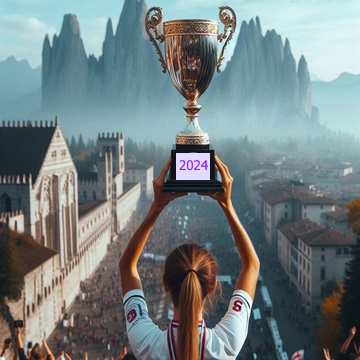
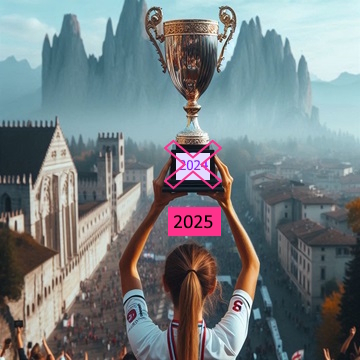
modification texte nouveau jeu mémoire long terme

Changed region(s): [[0.4583, 0.3667, 0.6111, 0.6722]]

diff --git a/ReactCoreCerebral/ClientApp/src/jeux/vitesse/parcours/JeuAlz.js b/ReactCoreCerebral/ClientApp/src/jeux/vitesse/parcours/JeuAlz.js
@@ -25,11 +25,12 @@ export default class JeuAlz extends Component {
             score :0
         };
         this.noPartie = 0;
-        this.tabPartie = [{  nbElements: 3 }, { nbElements: 4 }, {nbElements: 5 }]
+        this.tabPartie = [{  nbElements: 3, espacePipe : 280 }, { nbElements: 4, espacePipe : 200 }, {nbElements: 5, espacePipe : 180 }]
         this.erreur = 0;
         this.erreurTotal = 0;
         this.stop = false;
         this.nbPipes = 3;
+        this.espacePipe = 280;
 
     }
    
@@ -103,32 +104,47 @@ export default class JeuAlz extends Component {
                 }
             }
             this.erreur = this.state.tabMots.length - trouve;
+            score += 7 * trouve;
             this.stop = true;
             if (this.erreur === 0) {
                 message.success("Bravo", 2, this.nouvellePartie);
-                score += 7;
+            
             }
             else {
-                message.error("Perdu, fautes : " + this.erreur, 2, this.nouvellePartie);
+                console.log(this.erreur);
+                message.error(this.erreur +  (this.erreur == 1 ? " faute" : " fautes"), 2, this.nouvellePartie);
             }
         }
-        this.setState({ tabChoix: nouveauChoix });
+        this.setState({ tabChoix: nouveauChoix,
+            score
+         });
     }
     nouvellePartie = () => {
         this.noPartie++;
       
-        this.nbPipes = this.tabPartie[this.noPartie].nbElements;
+       
         this.erreurTotal += this.erreur;
         if (this.noPartie === this.tabPartie.length)
         {
-            this.setState({score : this.state.score + 40,
+            if (this.state.score > 83)
+            {
+                this.setState({score : this.state.score + 50,
+                    afficheResultat : true
+                });
+            }
+            else
+            {
+                 this.setState({
                 afficheResultat : true
             });
+            }
+           
         }
         else
         {
             this.stop = false;
-           
+            this.nbPipes = this.tabPartie[this.noPartie].nbElements;
+            this.espacePipe = this.tabPartie[this.noPartie].espacePipe;
             this.erreur = 0;
             this.setState({ tabMots: this.tirageDonnees(),
                 tabChoix: new Array(this.tabPartie[this.noPartie].nbElements).fill("vide"),
@@ -146,14 +162,14 @@ export default class JeuAlz extends Component {
        
         return <div>
              <Helmet>
-                    <title>Test mémoire de long terme</title>
-                    <meta name="description" content="Un jeu de mémorisation pour évaluer son âge mental. Retenez une liste de mots pour ensuite pouvoir choisir les dessins correspondants." />
-                </Helmet>
+                    <title>Jeu mémoire de long terme</title>
+                    <meta name="description" content="Testez vos capacités cognitives avec notre jeu de mémoire inspiré des tests d'Alzheimer. Améliorez votre mémoire tout en vous amusant et évaluez vos performances cérébrales." />
+                    </Helmet>
              {this.state.afficheResultat ?  <Resultat score={this.state.score} typeExo='vitessealz'></Resultat> :
         <div> <div className='titreJeu'>Mémoire de long terme</div> 
         {this.state.afficheEtat === 'liste' ? <div><Mots finMots={this.finMots}  tabMots={this.state.tabMots}></Mots> </div>:
           
-          this.state.afficheEtat === 'flip' ?  <JeuParcours jeuReussi={this.jeuReussi} nbPipes={this.nbPipes}></JeuParcours> :<div><div className="margeHaut10 centre fontMoyenne">Choisir les images qui correspondent aux mots que tu as retenus. L'ordre n'a aucune importance.</div>
+          this.state.afficheEtat === 'flip' ?  <JeuParcours jeuReussi={this.jeuReussi} espacePipe={this.espacePipe} nbPipes={this.nbPipes}></JeuParcours> :<div><div className="margeHaut10 centre fontMoyenne">Choisir les images qui correspondent aux mots que tu as retenus. L'ordre n'a aucune importance.</div>
             <Choix tabChoix={this.state.tabChoix} ></Choix>
            
             <Images tabImages={this.state.tabImages} choixImage={this.choixImage}></Images>
@@ -162,7 +178,7 @@ export default class JeuAlz extends Component {
         </div>}
         </div>}
         <div className='centre'>
-          <div className="marge20"> <CompteRebours temps={30} finTimer={this.finTimer}></CompteRebours></div>
+          <div className="marge20"> <CompteRebours temps={90} finTimer={this.finTimer}></CompteRebours></div>
                <div className="marge20">Score : {this.state.score}</div></div>
         </div>
     }

diff --git a/ReactCoreCerebral/ClientApp/src/components/principal/PresentationTemps.js b/ReactCoreCerebral/ClientApp/src/components/principal/PresentationTemps.js
@@ -62,6 +62,9 @@ this.nomMois = moisEnFrancais[d.getMonth()];
       <Helmet>
         <title>Jeux cognitifs gratuits en ligne pour adultes</title>
         <meta name="description" content="Des jeux cognitifs simples pour faire travailler son cerveau tout en s'amusant. Tous les jeux sont accessibles en ligne et sont gratuits, ils peuvent être pratiqués aussi bien par les enfants que les adultes et les seniors." />
+        <link rel="alternate" hreflang="en" href="https://brain-games.evalquiz.com" />
+<link rel="alternate" hreflang="fr" href="https://cerebral.evalquiz.com" />
+<link rel="alternate" hreflang="x-default" href="https://cerebral.evalquiz.com" />
       </Helmet>
       <h1 className="titre centre couleurTitre">Sport cérébral et jeux cognitifs</h1>
       <div className='centre'>evalquiz : le site numéro 1 du divertissement intelligent</div>
@@ -70,8 +73,7 @@ this.nomMois = moisEnFrancais[d.getMonth()];
         <Col md={24}>
         <h2>Développez votre intelligence avec les jeux cognitifs</h2>
         <p>À l'ère numérique actuelle, où nos esprits sont constamment sollicités par une multitude d'informations, la pratique de jeux cognitifs apparait comme une stratégie intelligente pour stimuler et développer notre cerveau. Ces jeux, conçus pour engager activement les processus mentaux, offrent bien plus qu'une simple distraction ludique.</p>
-        
-          <div className="centre"><img src={border} alt="bordure" width="100" height="41" ></img></div>
+      
 
         </Col>
       </Row>
@@ -83,10 +85,10 @@ this.nomMois = moisEnFrancais[d.getMonth()];
   
           <h3>Les précédents champions</h3>
       <p className='fontMoyenne'>👑 <span className='champVitesse'>Gwendal x2</span>  <span className='champVitesse'>Meneleus</span> <span className='champVitesse'>Quentin x2</span> <span className='champVitesse'>rvteo x2</span> <span className='champVitesse'>waïra x2</span>
-       <span className='champVitesse'>inconnu583 x6</span> <span className='champVitesse'>Lili55 x5</span>👑</p>
-      <h3 className='centre'>🚩 Lili55 a remporté le concours de l'année 2024 avec une nouvelle victoire en décembre ! 📅</h3>
-      <p className="centre">Qui sera le premier gagnant de 2025 ?</p>
-      <div className="centre"><img src={x6} width="200" height="200" alt="vainqueur 2024"></img></div>
+       <span className='champVitesse'>inconnu583 x6</span> <span className='champVitesse'>Lili55 x6</span>👑</p>
+      <h3 className='centre'>🚩 Nouvelle année et nouvelle victoire pour Lili55. La sixième consécutive. Bravo ! 📅</h3>
+      <p className="centre">La lutte pour la première place est aussi intense pour nos autres jeux : le<a href="https://concours.evalquiz.com/yam-presentation"> Yams</a> et le <a href="https://concours.evalquiz.com/mots-scrable">Scrabble solitaire</a></p>
+      <div className="centre"><img src={x6} width="200" height="200" alt="vainqueur 2025"></img></div>
      
       
       <div className='plateauCategorie'>

diff --git a/ReactCoreCerebral/ClientApp/src/components/principal/TestMemoire.js b/ReactCoreCerebral/ClientApp/src/components/principal/TestMemoire.js
@@ -33,14 +33,28 @@ export default class TestMemoire extends Component {
   render() {
     return <div>
          <Helmet>
-            <title>les tests de la mémoire </title>
+            <title>Les tests de la mémoire </title>
             <meta name="description" content="Évaluez et améliorez votre mémoire avec une gamme de tests interactifs. Découvrez des évaluations des différents types de mémoire pour mieux comprendre et renforcer vos capacités cognitives."></meta>
+
+            <link rel="alternate" hreflang="en" href="https://brain-games.evalquiz.com/memory-games" />
+<link rel="alternate" hreflang="fr" href="https://cerebral.evalquiz.com/test-memoire" />
+<link rel="alternate" hreflang="x-default" href="https://cerebral.evalquiz.com/test-memoire" />
             </Helmet>
-      <h1 className="titre couleurTitre centre">Bilan mémoire : testez vos performances</h1>
+      <h1 className="titre couleurTitre centre">Bilan mémoire : testez votre mémoire</h1>
      <p>Évaluez vos capacités de mémorisation à travers une série de jeux interactifs conçus pour faire un bilan complet de votre mémoire.</p>
 <GraphiqueRapidite categorie='m' recupererResultatJoueur={this.recupererResultatJoueur}></GraphiqueRapidite>
 
 <div className='jeuVitesse marge20'>
+
+<div className="lienJeuRapidité presentationJeu marge20">
+      <Link  to='/vitessealz'> <div className="centre titreVitesse" >🎗  La mémoire longue</div>    
+          <p className="marge20">But du jeu : Se souvenir des mots affichés. À la différence des autres tests, on ne vous demande pas de vous souvenir de la liste de mots tout de suite, vous devez jouer à un petit jeu avant de restituer la liste. Ce jeu de mémoire est inspiré d'un test d'Alzheimer, le test des 5 mots, mais dans une version ludique. 7 points par mot, bonus de 50 points si vous trouvez les 12 mots. </p>
+ </Link>
+     <p className='centre'>{this.state.resultatsJoueur["vitessealz"] != null ? "Ton score : " +  this.state.resultatsJoueur["vitessealz"]:"Pas encore de résultat" }</p>
+        <div className="centre"><Link to='/classement/vitessealz'>Classement</Link></div>
+      </div>
+
+
               <div className="lienJeuRapidité presentationJeu marge20">
       <Link  to='/vitessememory'> <div className="centre titreVitesse" >🎩  Le jeu du memory</div>    
           <p className="marge20">But du jeu : Trouver toutes les paires comme dans le classique jeu du Memory. Une différence avec le jeu classique : tu découvres les paires à ton rythme. Elles ne disparaissent pas au bout d'un certain temps. Le temps alloué est de 60 secondes pour tenter de trouver toutes les paires, un bonus de 30 points est alloué si tu finis le jeu.</p>

diff --git a/ReactCoreCerebral/ClientApp/src/components/principal/TestCulture.js b/ReactCoreCerebral/ClientApp/src/components/principal/TestCulture.js
@@ -35,7 +35,9 @@ export default class TestCulture extends Component {
          <Helmet>
             <title>Tests divers de culture</title>
             <meta name="description" content="Améliorez vos compétences pratiques avec des tests interactifs de reconnaissance des notes musicales, de dactylographie, et de code de la route." />
-
+            <link rel="alternate" hreflang="en" href="https://brain-games.evalquiz.com/culture-games" />
+<link rel="alternate" hreflang="fr" href="https://cerebral.evalquiz.com/test-culture" />
+<link rel="alternate" hreflang="x-default" href="https://cerebral.evalquiz.com/test-culture" />
 </Helmet>
   
       <h1 className="titre couleurTitre centre">Tests divers sur la culture</h1>
@@ -43,7 +45,7 @@ export default class TestCulture extends Component {
       <GraphiqueRapidite categorie='d' recupererResultatJoueur={this.recupererResultatJoueur}></GraphiqueRapidite>
       <div className='jeuVitesse marge20'>
               
-              <div className="lienJeuRapidité presentationJeu marge20">
+              {/* <div className="lienJeuRapidité presentationJeu marge20">
            <Link to='/vitessepanneauroutier'>   <div className="centre titreVitesse" >🚦Le code de la route</div>
    
           <p className="marge20">But du jeu : Une grille est affichée avec des panneaux routiers, il suffit de retrouver le panneau routier indiqué par la question. Tu as 120 secondes pour essayer de trouver tous les panneaux. Tu gagnes 2 points par panneau trouvé, -4 points en cas d'erreur. Si tu termines la grille, bonus de 20 points ! Le maximum est de (36 x 2) + 20 = 92 points. </p>
@@ -51,7 +53,7 @@ export default class TestCulture extends Component {
      <p className='centre'>{this.state.resultatsJoueur["vitessepanneauroutier"] != null ? "Ton score : " +  this.state.resultatsJoueur["vitessepanneauroutier"]:"Pas encore de résultat" }</p>
 
         <div className="centre"><Link to='/classement/vitessepanneauroutier'>Classement</Link></div>
-    </div>
+    </div> */}
 
     <div className="lienJeuRapidité presentationJeu marge20">
    <Link to='/vitesseecrire'> <div className="centre titreVitesse" >📠 La dactylographie</div>   

diff --git a/ReactCoreCerebral/ClientApp/src/jeux/vitesse/parcours/JeuFlip.js b/ReactCoreCerebral/ClientApp/src/jeux/vitesse/parcours/JeuFlip.js
@@ -2,10 +2,10 @@ import React, { useState, useEffect, useRef } from 'react';
 import parcours from '../../../images/parcours.png'
 
 const NUMBER_OF_PIPES = 4; // Nombre de pipes à afficher
-const PIPE_SPACING = 200; // Distance entre chaque pipe
 
-export default function JeuParcours({nbPipes ,jeuReussi}) {
-    const gameWidth = 400;
+
+export default function JeuParcours({nbPipes ,jeuReussi, espacePipe}) {
+    const gameWidth = 360;
     const gameHeight = 400;
     const birdSize = 30;
     const pipeWidth = 60;
@@ -13,7 +13,7 @@ export default function JeuParcours({nbPipes ,jeuReussi}) {
     const gravity = 0.5;
     const jumpStrength = -8;
     const moveSpeed = 5;
-    
+    const PIPE_SPACING = espacePipe; // Distance entre chaque pipe
 
     const [birdY, setBirdY] = useState(150);
     const [birdX, setBirdX] = useState(50);
@@ -54,7 +54,7 @@ export default function JeuParcours({nbPipes ,jeuReussi}) {
                     (birdY < pipe.height || birdY > pipe.height + pipeGap)
                 ) {
                       setIsGameOver(true);
-                      restartGame();
+                     restartGame();
                 }
             });
 
@@ -130,7 +130,7 @@ export default function JeuParcours({nbPipes ,jeuReussi}) {
                 textShadow: '2px 2px 4px rgba(0,0,0,0.5)',
                 fontWeight: 'bold'
             }}>
-                Pipes passés: {pipesPassed}/{nbPipes}
+                Tuyaux passés : {pipesPassed}/{nbPipes}
             </div>
             
             {/* Message de fin */}

diff --git a/ReactCoreCerebral/ClientApp/src/components/principal/router.js b/ReactCoreCerebral/ClientApp/src/components/principal/router.js
@@ -65,7 +65,7 @@ const JeuNote = React.lazy(() => import('../../jeux/vitesse/note/JeuNote'));
 const JeuMemoire = React.lazy(() => import('../../jeux/vitesse/memoire/JeuMemoire'));
 const JeuCercle = React.lazy(() => import('../../jeux/vitesse/cercle/JeuCercle'));
 const JeuRecensement = React.lazy(() => import('../../jeux/vitesse/recensement/JeuRecensement'));
-const JeuPanneaux = React.lazy(() => import('../../jeux/vitesse/panneaux/JeuPanneaux'));
+//const JeuPanneaux = React.lazy(() => import('../../jeux/vitesse/panneaux/JeuPanneaux'));
 const JeuAri = React.lazy(() => import('../../jeux/vitesse/arithmetique/JeuAri'));
 const JeuMatch = React.lazy(() => import('../../jeux/vitesse/match/JeuMatch'));
 const JeuNombre = React.lazy(() => import('../../jeux/vitesse/nombre/JeuNombre'));
@@ -104,7 +104,7 @@ const router = createBrowserRouter([
        
           {
             index : true,
-            element: <JeuAlz />,
+            element: <PresentationTemps />,
           },
           {
             path :"en",
@@ -396,11 +396,11 @@ const router = createBrowserRouter([
             element: <JeuBataille/>,
             
           },
-          {
-            path: 'vitessepanneauroutier',
-            element: <JeuPanneaux/>,
+          // {
+          //   path: 'vitessepanneauroutier',
+          //   element: <JeuPanneaux/>,
             
-          },
+          // },
           {
             path: 'vitessesolitaire',
             element: <JeuSolitaire/>,

diff --git a/ReactCoreCerebral/ClientApp/src/jeux/vitesse/commun/utilitaire.js b/ReactCoreCerebral/ClientApp/src/jeux/vitesse/commun/utilitaire.js
@@ -85,6 +85,8 @@ function nomType(type) {
             return "La chasse des mots";
         case "vitessebataille":
             return "La bataille navale";
+            case "vitessealz":
+                return "Mémoire longue";
         default:
             return "";
     }
@@ -96,10 +98,10 @@ let tabJeu = ["vitesseaddition", "vitesseburger", "vitessecouleur", "vitessesoli
     "vitessecercle", "vitesselettres", "vitesseboogle", "vitessechasse",
     "vitessechemin", "vitessetresor", "vitessetresse", "vitessetaquin", "vitessefusee", "vitessebataille",
     "vitesseoperation", "vitessecalcul", "vitessearithmetique", "vitessemonnaie",
-    "vitesseecrire", "vitessenotes", "vitessepanneauroutier",
-    "vitessememoire", "vitesseforme", "vitessenombre", "vitessememory", "vitessepaire"]
+    "vitesseecrire", "vitessenotes",
+    "vitessememoire", "vitesseforme", "vitessenombre", "vitessememory", "vitessepaire", "vitessealz"]
 
-let typeJeu = ['r', 'r', 'r', 'r', 'r', 'r', 'r', 'r', 'r', 'r', 'l', 'l', 'l', 'l', 'p', 'p', 'p', 'p', 'p', 'p', 'c', 'c', 'c', 'c', 'd', 'd', 'd', 'm', 'm', 'm', 'm', 'm']
+let typeJeu = ['r', 'r', 'r', 'r', 'r', 'r', 'r', 'r', 'r', 'r', 'l', 'l', 'l', 'l', 'p', 'p', 'p', 'p', 'p', 'p', 'c', 'c', 'c', 'c', 'd', 'd', 'm', 'm', 'm', 'm', 'm', 'm']
 
 let tabCategorie = ["test-memoire", "test-concentration", "test-calcul", "test-lettres", "test-culture", "test-planification"]
 

diff --git a/ReactCoreCerebral/ClientApp/src/components/principal/TestPlanification.js b/ReactCoreCerebral/ClientApp/src/components/principal/TestPlanification.js
@@ -34,7 +34,11 @@ export default class TestPlanification extends Component {
     return <div>
          <Helmet>
             <title>Tests de planification mentale</title>
-            <meta name="description" content="Découvrez nos tests de planification mentale conçus pour évaluer et améliorer vos compétences en organisation et en gestion du temps. Testez votre capacité à planifier, anticiper et résoudre des problèmes complexes avec nos outils interactifs." />        </Helmet>
+            <meta name="description" content="Découvrez nos tests de planification mentale conçus pour évaluer et améliorer vos compétences en organisation et en gestion du temps. Testez votre capacité à planifier, anticiper et résoudre des problèmes complexes avec nos outils interactifs." />     
+            <link rel="alternate" hreflang="en" href="https://brain-games.evalquiz.com/planning-games" />
+<link rel="alternate" hreflang="fr" href="https://cerebral.evalquiz.com/test-planification" />
+<link rel="alternate" hreflang="x-default" href="https://cerebral.evalquiz.com/test-planification" />
+               </Helmet>
 
       <h1 className="titre couleurTitre centre">Les tests de planification</h1>
       <p>Développez votre esprit stratégique et améliorez vos compétences en planification avec nos jeux stimulants et captivants !</p>

diff --git a/ReactCoreCerebral/ClientApp/src/components/principal/TestCalcul.js b/ReactCoreCerebral/ClientApp/src/components/principal/TestCalcul.js
@@ -34,6 +34,10 @@ export default class TestCalcul extends Component {
          <Helmet>
             <title>Tests de calcul mental</title>
             <meta name="description" content="Améliorez vos compétences en calcul mental avec nos tests interactifs. Évaluez votre rapidité et précision en mathématiques à travers une série d'exercices stimulants conçus pour affiner votre agilité numérique et renforcer vos capacités cognitives." />
+            <link rel="alternate" hreflang="en" href="https://brain-games.evalquiz.com/arithmetic-games" />
+<link rel="alternate" hreflang="fr" href="https://cerebral.evalquiz.com/test-calcul" />
+<link rel="alternate" hreflang="x-default" href="https://cerebral.evalquiz.com/test-calcul" />
+          
             </Helmet>
 
       <h1 className="titre couleurTitre centre">Les tests de calcul mental</h1>

diff --git a/ReactCoreCerebral/ClientApp/src/components/principal/TestConcentration.js b/ReactCoreCerebral/ClientApp/src/components/principal/TestConcentration.js
@@ -35,6 +35,10 @@ export default class TesConcentration extends Component {
          <Helmet>
          <title>Tests de concentration</title>
             <meta name="description" content="Renforcez votre attention avec nos tests de concentration interactifs. Mesurez et améliorez votre capacité à rester concentré sur des tâches spécifiques grâce à des exercices stimulants conçus pour optimiser vos performances cognitives." />
+            <link rel="alternate" hreflang="en" href="https://brain-games.evalquiz.com/concentration-games" />
+<link rel="alternate" hreflang="fr" href="https://cerebral.evalquiz.com/test-concentration" />
+<link rel="alternate" hreflang="x-default" href="https://cerebral.evalquiz.com/test-concentration" />
+       
         </Helmet>
 
       <h1 className="titre couleurTitre centre">Les tests de concentration</h1>

diff --git a/ReactCoreCerebral/ClientApp/src/components/principal/TestLettres.js b/ReactCoreCerebral/ClientApp/src/components/principal/TestLettres.js
@@ -35,6 +35,11 @@ export default class TestLettres extends Component {
          <Helmet>
             <title>Jeux de mots gratuits</title>
             <meta name="description" content="Découvrez une collection de jeux captivants pour tester et améliorer votre habileté avec les mots et affiner vos compétences verbales."></meta>
+            <link rel="alternate" hreflang="en" href="https://brain-games.evalquiz.com/words-games" />
+<link rel="alternate" hreflang="fr" href="https://cerebral.evalquiz.com/test-lettres" />
+<link rel="alternate" hreflang="x-default" href="https://cerebral.evalquiz.com/test-lettres" />
+       
+       
             </Helmet>
   
       <h1 className="titre couleurTitre centre">Jouer avec les mots</h1>

diff --git a/ReactCoreCerebral/ClientApp/src/components/commun/GraphiquesRapidité.js b/ReactCoreCerebral/ClientApp/src/components/commun/GraphiquesRapidité.js
@@ -30,7 +30,7 @@ export default class GraphiqueRapidite extends Component {
        
         if (this.props.categorie === 'm') {
 
-            this.max = 500;
+            this.max = 560;
             message = 'Ta capacité de mémorisation est : '
         } else if (this.props.categorie === 'l') {
             this.max = 400;
@@ -49,7 +49,7 @@ export default class GraphiqueRapidite extends Component {
             message = 'Ta capacité de concentration est ';
         }
         else if (this.props.categorie === 'd') {
-            this.max = 150;
+            this.max = 100;
             message = 'Ton aptitude culturelle est ';
         }
         this.setState({
